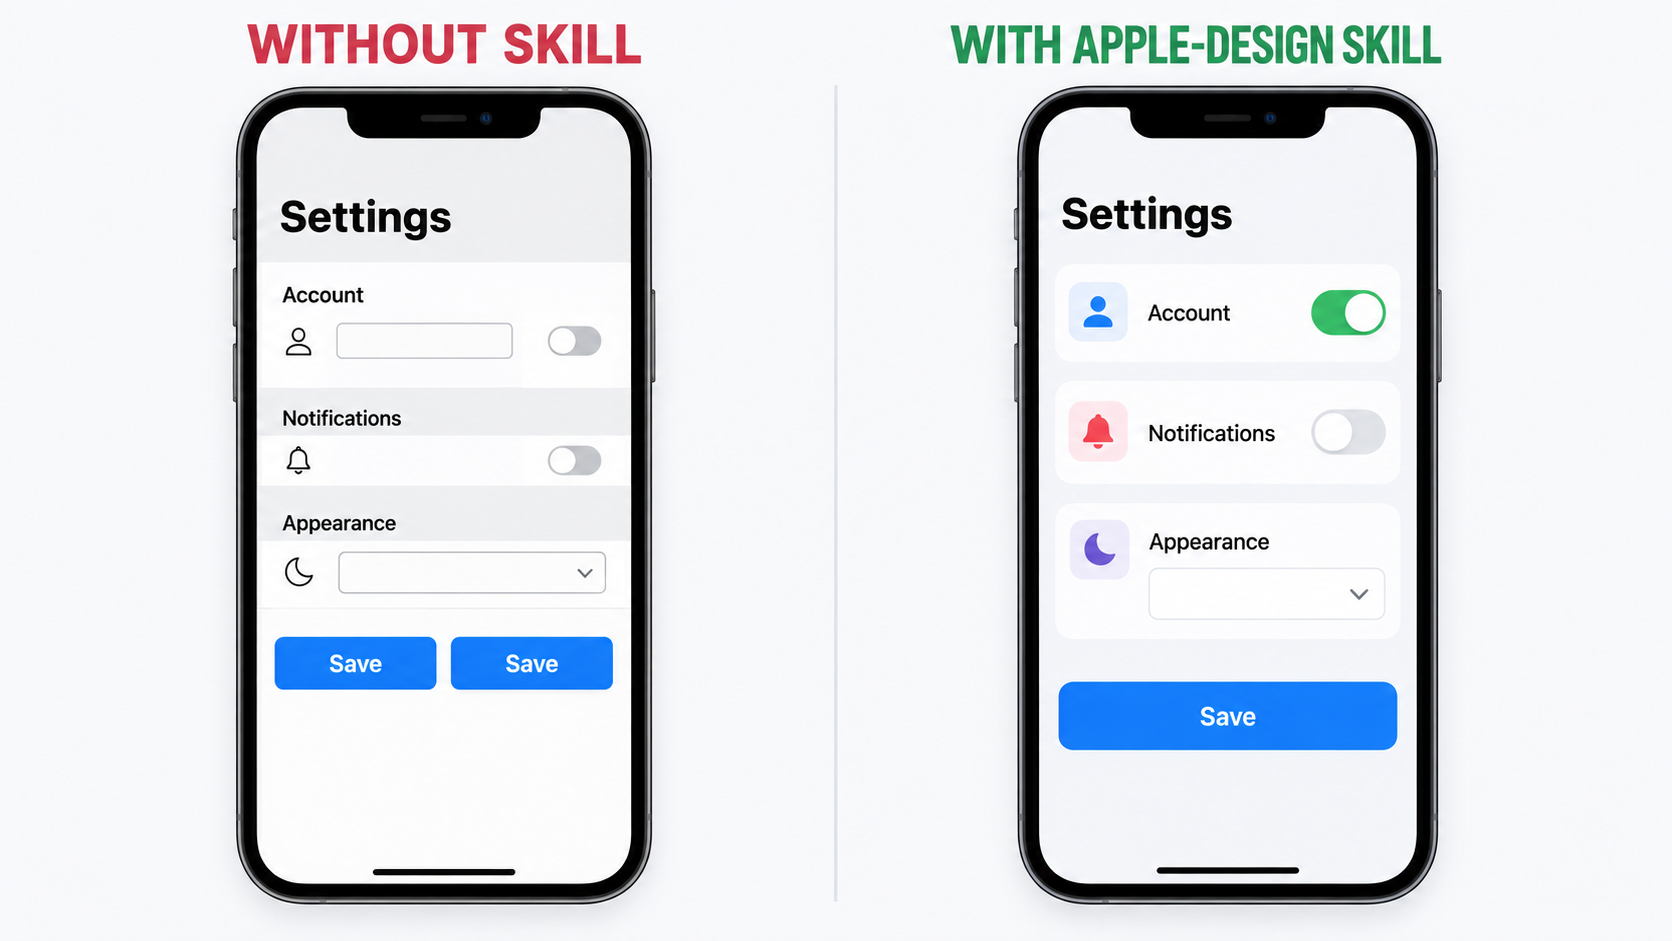
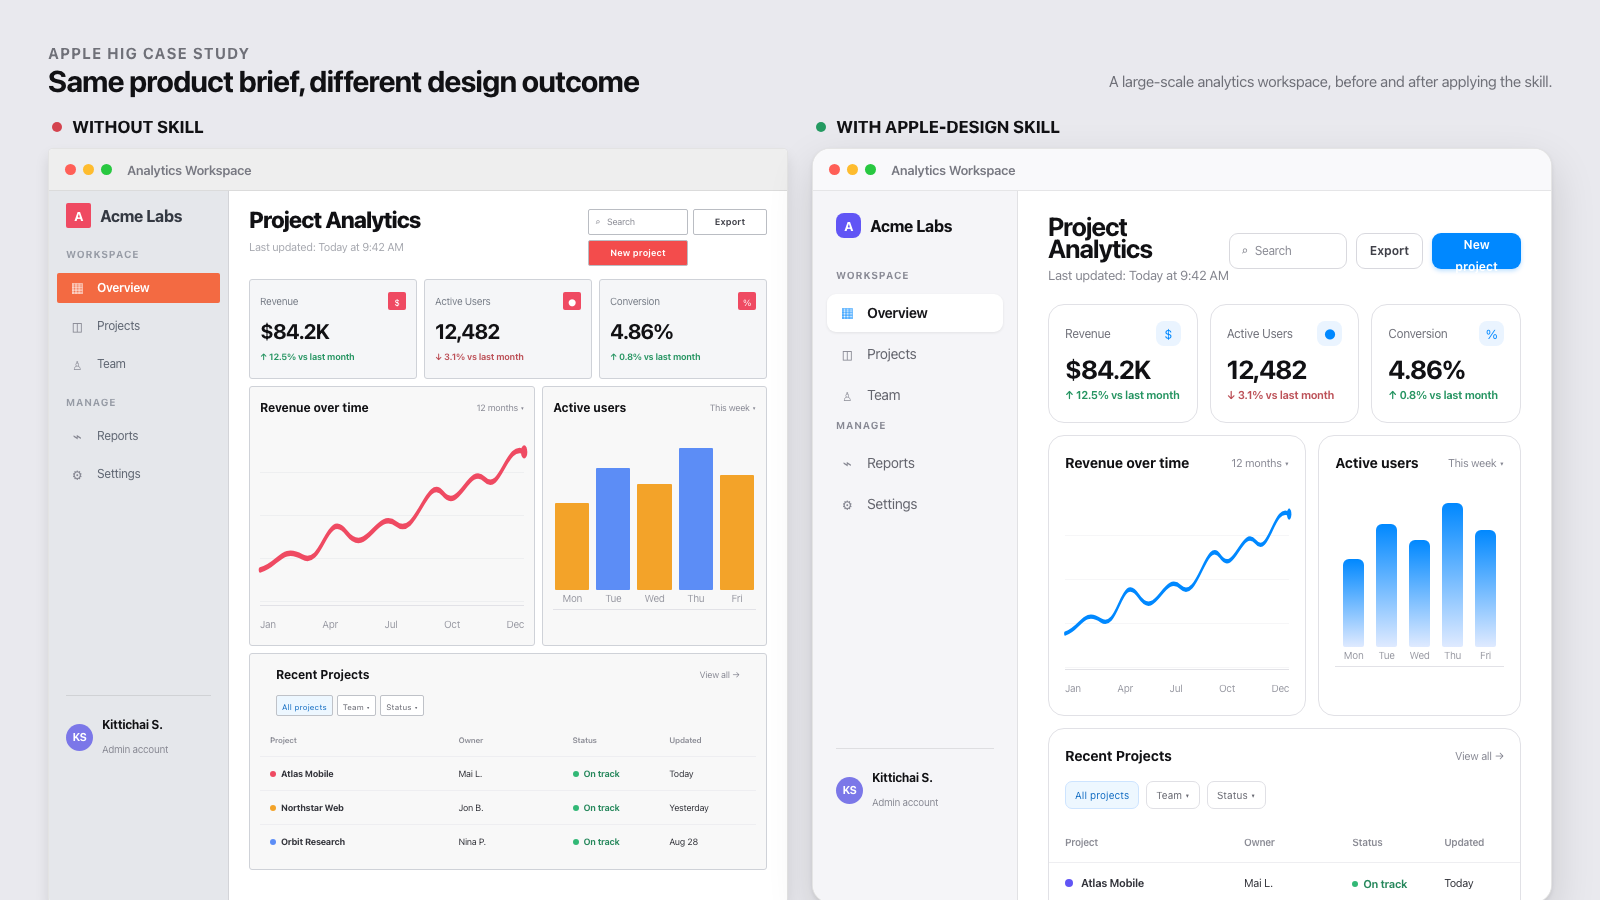
Expand README UI comparison example

diff --git a/examples/comparison.html b/examples/comparison.html
@@ -1,0 +1,280 @@
+<!doctype html>
+<html lang="en" data-theme="light">
+<head>
+<meta charset="utf-8">
+<meta name="viewport" content="width=device-width, initial-scale=1">
+<title>apple-design — before and after</title>
+<link rel="stylesheet" href="../assets/apple-tokens.css">
+<style>
+  /* The comparison is intentionally a fixed, presentation-sized canvas. */
+  :root { color-scheme: light; }
+  * { box-sizing: border-box; }
+  body {
+    margin: 0;
+    min-width: 1600px;
+    background: #e9e9ee;
+    color: #111114;
+    font-family: var(--font-sans);
+  }
+  .canvas {
+    width: 1600px;
+    min-height: 900px;
+    padding: 42px 48px 48px;
+    margin: 0 auto;
+  }
+  .canvas__intro {
+    display: flex;
+    align-items: end;
+    justify-content: space-between;
+    margin-bottom: 24px;
+  }
+  .eyebrow {
+    margin: 0 0 6px;
+    color: #6f7078;
+    font-size: 15px;
+    font-weight: 700;
+    letter-spacing: .08em;
+    text-transform: uppercase;
+  }
+  h1 { margin: 0; font-size: 30px; letter-spacing: -.03em; }
+  .intro-note { margin: 0; color: #6f7078; font-size: 15px; }
+  .comparison { display: grid; grid-template-columns: 1fr 1fr; gap: 24px; }
+  .case { min-width: 0; }
+  .case__label {
+    display: flex;
+    align-items: center;
+    gap: 10px;
+    margin: 0 0 10px 4px;
+    font-size: 17px;
+    font-weight: 750;
+    letter-spacing: -.01em;
+  }
+  .case__dot { width: 10px; height: 10px; border-radius: 50%; }
+  .case--bad .case__dot { background: #d4434e; }
+  .case--good .case__dot { background: #249a61; }
+  .window {
+    overflow: hidden;
+    height: 755px;
+    border: 1px solid rgb(0 0 0 / .10);
+    border-radius: 18px;
+    background: #fff;
+    box-shadow: 0 18px 45px rgb(0 0 0 / .14), 0 2px 4px rgb(0 0 0 / .08);
+  }
+  .window__bar {
+    display: flex;
+    align-items: center;
+    gap: 7px;
+    height: 42px;
+    padding: 0 16px;
+    border-bottom: 1px solid rgb(0 0 0 / .08);
+    background: rgb(249 249 251 / .96);
+  }
+  .traffic { width: 11px; height: 11px; border-radius: 50%; }
+  .traffic--red { background: #ff5f57; }
+  .traffic--yellow { background: #febc2e; }
+  .traffic--green { background: #28c840; }
+  .window__name { margin-left: 8px; color: #777881; font-size: 13px; font-weight: 600; }
+  .app { display: grid; grid-template-columns: 205px 1fr; height: calc(100% - 42px); }
+  .sidebar {
+    padding: 22px 14px;
+    border-right: 1px solid rgb(0 0 0 / .08);
+    background: #f5f5f8;
+  }
+  .sidebar__brand { display: flex; align-items: center; gap: 9px; margin: 0 9px 26px; font-size: 16px; font-weight: 750; }
+  .brand-mark { display: grid; place-items: center; width: 25px; height: 25px; border-radius: 8px; color: #fff; background: var(--indigo); font-size: 13px; }
+  .sidebar__section { margin: 0 9px 8px; color: #888994; font-size: 10px; font-weight: 700; letter-spacing: .08em; text-transform: uppercase; }
+  .side-item { display: flex; align-items: center; gap: 10px; height: 38px; padding: 0 10px; border-radius: 9px; color: #64656e; font-size: 14px; }
+  .side-item + .side-item { margin-top: 3px; }
+  .side-item__icon { display: grid; place-items: center; width: 20px; color: #868792; font-size: 15px; }
+  .side-item--active { color: #16161a; background: #fff; box-shadow: 0 1px 3px rgb(0 0 0 / .08); font-weight: 650; }
+  .side-item--active .side-item__icon { color: var(--accent); }
+  .sidebar__profile { display: flex; align-items: center; gap: 9px; margin: 225px 9px 0; padding-top: 18px; border-top: 1px solid rgb(0 0 0 / .09); }
+  .avatar { display: grid; place-items: center; width: 27px; height: 27px; border-radius: 50%; color: #fff; background: #7b77e8; font-size: 11px; font-weight: 700; }
+  .profile-copy { min-width: 0; }
+  .profile-copy strong, .profile-copy small { display: block; overflow: hidden; text-overflow: ellipsis; white-space: nowrap; }
+  .profile-copy strong { font-size: 12px; }
+  .profile-copy small { margin-top: 2px; color: #898a94; font-size: 10px; }
+  .main { min-width: 0; overflow: hidden; background: #fff; }
+  .main__header { display: flex; align-items: center; justify-content: space-between; padding: 24px 30px 18px; }
+  .main__title h2 { margin: 0; font-size: 26px; letter-spacing: -.04em; }
+  .main__title p { margin: 5px 0 0; color: #85868f; font-size: 13px; }
+  .toolbar { display: flex; align-items: center; gap: 9px; }
+  .search { display: flex; align-items: center; gap: 7px; height: 36px; padding: 0 11px; border: 1px solid #d9d9de; border-radius: 9px; color: #8b8c95; font-size: 12px; }
+  .search span:last-child { width: 80px; }
+  button { font: inherit; }
+  .button { height: 36px; padding: 0 13px; border: 1px solid #d8d8de; border-radius: 9px; color: #404149; background: #fff; font-size: 12px; font-weight: 650; }
+  .button--primary { border-color: transparent; color: #fff; background: var(--accent); box-shadow: 0 2px 4px rgb(0 136 255 / .25); }
+  .content { padding: 0 30px 30px; }
+  .metrics { display: grid; grid-template-columns: repeat(3, 1fr); gap: 12px; }
+  .metric { padding: 16px; border: 1px solid #e1e1e6; border-radius: var(--r-lg); background: var(--bg-grouped-secondary); }
+  .metric__top { display: flex; align-items: center; justify-content: space-between; color: #70717a; font-size: 12px; }
+  .metric__icon { display: grid; place-items: center; width: 25px; height: 25px; border-radius: 8px; color: var(--accent); background: #eaf4ff; font-size: 13px; }
+  .metric__value { margin-top: 12px; font-size: 26px; font-weight: 700; letter-spacing: -.04em; }
+  .metric__delta { margin-top: 4px; color: #259461; font-size: 11px; font-weight: 650; }
+  .metric__delta--bad { color: #bc5057; }
+  .panel-grid { display: grid; grid-template-columns: 1.12fr .88fr; gap: 12px; margin-top: 12px; }
+  .panel { min-width: 0; padding: 16px; border: 1px solid #e1e1e6; border-radius: var(--r-lg); background: #fff; }
+  .panel__heading { display: flex; align-items: center; justify-content: space-between; }
+  .panel__heading h3 { margin: 0; font-size: 14px; letter-spacing: -.01em; }
+  .panel__heading span { color: #888994; font-size: 11px; }
+  .chart { position: relative; height: 178px; margin-top: 18px; border-bottom: 1px solid #e2e2e7; background: repeating-linear-gradient(to bottom, transparent 0 43px, #ededf0 44px); }
+  .chart svg { position: absolute; inset: 0; width: 100%; height: 100%; overflow: visible; }
+  .chart-labels { display: flex; justify-content: space-between; margin-top: 7px; color: #999aa3; font-size: 10px; }
+  .bars { display: grid; grid-template-columns: repeat(5, 1fr); align-items: end; gap: 12px; height: 178px; margin-top: 15px; padding: 0 8px 19px; border-bottom: 1px solid #e2e2e7; }
+  .bar { position: relative; border-radius: 6px 6px 2px 2px; background: linear-gradient(to top, #dfeaff, var(--accent)); }
+  .bar::after { content: ""; position: absolute; right: 0; bottom: -19px; left: 0; color: #999aa3; font-size: 10px; text-align: center; }
+  .bar:nth-child(1) { height: 56%; } .bar:nth-child(2) { height: 78%; } .bar:nth-child(3) { height: 68%; } .bar:nth-child(4) { height: 91%; } .bar:nth-child(5) { height: 74%; }
+  .bar:nth-child(1)::after { content: "Mon"; } .bar:nth-child(2)::after { content: "Tue"; } .bar:nth-child(3)::after { content: "Wed"; } .bar:nth-child(4)::after { content: "Thu"; } .bar:nth-child(5)::after { content: "Fri"; }
+  .table-panel { margin-top: 12px; padding: 16px 0 0; }
+  .table-panel .panel__heading { padding: 0 16px; }
+  .filters { display: flex; gap: 7px; margin-top: 14px; padding: 0 16px; }
+  .filter { height: 28px; padding: 0 9px; border: 1px solid #e0e0e5; border-radius: 7px; color: #686972; background: #fff; font-size: 10px; }
+  .filter--selected { border-color: #cde4ff; color: #126cc2; background: #edf7ff; }
+  table { width: 100%; margin-top: 13px; border-collapse: collapse; table-layout: fixed; font-size: 11px; }
+  th { padding: 9px 16px; color: #8b8c95; font-size: 10px; font-weight: 600; text-align: left; }
+  td { height: 41px; padding: 0 16px; border-top: 1px solid #eeeeF1; color: #33343b; }
+  th:nth-child(1), td:nth-child(1) { width: 38%; } th:nth-child(2), td:nth-child(2) { width: 23%; }
+  .project { display: flex; align-items: center; gap: 8px; font-weight: 650; }
+  .project__dot { width: 8px; height: 8px; border-radius: 50%; background: var(--indigo); }
+  .status { display: inline-flex; align-items: center; gap: 5px; color: #25875b; font-weight: 650; }
+  .status::before { content: ""; width: 6px; height: 6px; border-radius: 50%; background: #32b876; }
+
+  /* Deliberately weaker choices on the left-hand example. */
+  .case--bad .window { border-radius: 5px; background: #fdfdfd; box-shadow: 0 8px 14px rgb(0 0 0 / .10); }
+  .case--bad .window__bar { background: #eeeeee; }
+  .case--bad .app { grid-template-columns: 180px 1fr; }
+  .case--bad .sidebar { padding: 12px 8px; background: #e5e7eb; }
+  .case--bad .sidebar__brand { margin-bottom: 15px; color: #343942; }
+  .case--bad .brand-mark { border-radius: 2px; background: #ef4a62; }
+  .case--bad .sidebar__section { margin-top: 12px; color: #969ba5; }
+  .case--bad .side-item { height: 30px; border-radius: 2px; color: #5f6672; font-size: 12px; }
+  .case--bad .side-item + .side-item { margin-top: 8px; }
+  .case--bad .side-item--active { color: #fff; background: #f36a42; box-shadow: none; }
+  .case--bad .side-item--active .side-item__icon { color: #fff; }
+  .case--bad .sidebar__profile { margin-top: 206px; }
+  .case--bad .main { background: #fff; }
+  .case--bad .main__header { align-items: start; padding: 18px 20px 13px; }
+  .case--bad .main__title h2 { font-size: 23px; font-weight: 800; }
+  .case--bad .main__title p { color: #a7a9b0; font-size: 11px; }
+  .case--bad .toolbar { display: grid; grid-template-columns: 100px 74px; gap: 5px; }
+  .case--bad .search { width: 100px; height: 26px; padding: 0 6px; border-color: #babdc3; border-radius: 2px; font-size: 9px; }
+  .case--bad .search span:last-child { width: 53px; }
+  .case--bad .button { height: 26px; padding: 0 6px; border-color: #babdc3; border-radius: 2px; font-size: 9px; }
+  .case--bad .button--primary { background: #f34c4c; box-shadow: none; }
+  .case--bad .content { padding: 0 20px 20px; }
+  .case--bad .metrics { gap: 7px; }
+  .case--bad .metric { min-height: 94px; padding: 10px; border-color: #cfd2d8; border-radius: 3px; background: #f5f6f8; }
+  .case--bad .metric__top { color: #777d87; font-size: 10px; }
+  .case--bad .metric__icon { width: 18px; height: 18px; border-radius: 2px; color: #fff; background: #ef4a62; font-size: 9px; }
+  .case--bad .metric__value { margin-top: 8px; font-size: 21px; }
+  .case--bad .metric__delta { font-size: 9px; }
+  .case--bad .panel-grid { gap: 7px; margin-top: 7px; }
+  .case--bad .panel { padding: 10px; border-color: #cfd2d8; border-radius: 3px; background: #f8f8f8; }
+  .case--bad .panel__heading h3 { font-size: 12px; }
+  .case--bad .panel__heading span { font-size: 9px; }
+  .case--bad .chart { height: 176px; margin-top: 11px; background: repeating-linear-gradient(to bottom, transparent 0 42px, #e4e6e9 43px); }
+  .case--bad .chart path { stroke: #ef4a62; stroke-width: 5; }
+  .case--bad .chart circle { fill: #ef4a62; }
+  .case--bad .bars { height: 176px; gap: 7px; padding-inline: 2px; }
+  .case--bad .bar { border-radius: 1px; background: #f3a329; }
+  .case--bad .bar:nth-child(2), .case--bad .bar:nth-child(4) { background: #5c8df6; }
+  .case--bad .table-panel { margin-top: 7px; padding-top: 10px; }
+  .case--bad .filters { gap: 4px; margin-top: 9px; }
+  .case--bad .filter { height: 21px; padding: 0 5px; border-color: #bfc2c8; border-radius: 2px; font-size: 8px; }
+  .case--bad table { margin-top: 8px; font-size: 9px; }
+  .case--bad th { padding: 5px 10px; font-size: 8px; }
+  .case--bad td { height: 34px; padding: 0 10px; }
+  .case--bad .project { gap: 5px; font-weight: 700; }
+  .case--bad .project__dot { width: 6px; height: 6px; background: #ef4a62; }
+</style>
+</head>
+<body>
+<main class="canvas">
+  <header class="canvas__intro">
+    <div>
+      <p class="eyebrow">Apple HIG case study</p>
+      <h1>Same product brief, different design outcome</h1>
+    </div>
+    <p class="intro-note">A large-scale analytics workspace, before and after applying the skill.</p>
+  </header>
+
+  <section class="comparison" aria-label="Before and after comparison">
+    <article class="case case--bad">
+      <h2 class="case__label"><span class="case__dot"></span>WITHOUT SKILL</h2>
+      <div class="window">
+        <div class="window__bar"><span class="traffic traffic--red"></span><span class="traffic traffic--yellow"></span><span class="traffic traffic--green"></span><span class="window__name">Analytics Workspace</span></div>
+        <div class="app">
+          <aside class="sidebar">
+            <div class="sidebar__brand"><span class="brand-mark">A</span> Acme Labs</div>
+            <p class="sidebar__section">Workspace</p>
+            <div class="side-item side-item--active"><span class="side-item__icon">▦</span> Overview</div>
+            <div class="side-item"><span class="side-item__icon">◫</span> Projects</div>
+            <div class="side-item"><span class="side-item__icon">♙</span> Team</div>
+            <p class="sidebar__section">Manage</p>
+            <div class="side-item"><span class="side-item__icon">⌁</span> Reports</div>
+            <div class="side-item"><span class="side-item__icon">⚙</span> Settings</div>
+            <div class="sidebar__profile"><span class="avatar">KS</span><span class="profile-copy"><strong>Kittichai S.</strong><small>Admin account</small></span></div>
+          </aside>
+          <div class="main">
+            <header class="main__header">
+              <div class="main__title"><h2>Project Analytics</h2><p>Last updated: Today at 9:42 AM</p></div>
+              <div class="toolbar"><div class="search"><span>⌕</span><span>Search</span></div><button class="button">Export</button><button class="button button--primary">New project</button></div>
+            </header>
+            <div class="content">
+              <div class="metrics">
+                <div class="metric"><div class="metric__top"><span>Revenue</span><span class="metric__icon">$</span></div><div class="metric__value">$84.2K</div><div class="metric__delta">↑ 12.5% vs last month</div></div>
+                <div class="metric"><div class="metric__top"><span>Active Users</span><span class="metric__icon">●</span></div><div class="metric__value">12,482</div><div class="metric__delta metric__delta--bad">↓ 3.1% vs last month</div></div>
+                <div class="metric"><div class="metric__top"><span>Conversion</span><span class="metric__icon">%</span></div><div class="metric__value">4.86%</div><div class="metric__delta">↑ 0.8% vs last month</div></div>
+              </div>
+              <div class="panel-grid">
+                <section class="panel"><div class="panel__heading"><h3>Revenue over time</h3><span>12 months ▾</span></div><div class="chart"><svg viewBox="0 0 500 160" preserveAspectRatio="none"><path d="M0,128 C35,124 40,105 80,116 S125,70 164,94 S220,71 258,86 S315,39 346,58 S395,30 425,45 S466,10 500,20" fill="none" stroke="#ef4a62" stroke-linecap="round"/><circle cx="500" cy="20" r="6" fill="#ef4a62"/></svg></div><div class="chart-labels"><span>Jan</span><span>Apr</span><span>Jul</span><span>Oct</span><span>Dec</span></div></section>
+                <section class="panel"><div class="panel__heading"><h3>Active users</h3><span>This week ▾</span></div><div class="bars"><span class="bar"></span><span class="bar"></span><span class="bar"></span><span class="bar"></span><span class="bar"></span></div></section>
+              </div>
+              <section class="panel table-panel"><div class="panel__heading"><h3>Recent Projects</h3><span>View all →</span></div><div class="filters"><button class="filter filter--selected">All projects</button><button class="filter">Team ▾</button><button class="filter">Status ▾</button></div><table><thead><tr><th>Project</th><th>Owner</th><th>Status</th><th>Updated</th></tr></thead><tbody><tr><td><span class="project"><span class="project__dot"></span>Atlas Mobile</span></td><td>Mai L.</td><td><span class="status">On track</span></td><td>Today</td></tr><tr><td><span class="project"><span class="project__dot" style="background:#f3a329"></span>Northstar Web</span></td><td>Jon B.</td><td><span class="status">On track</span></td><td>Yesterday</td></tr><tr><td><span class="project"><span class="project__dot" style="background:#5c8df6"></span>Orbit Research</span></td><td>Nina P.</td><td><span class="status">On track</span></td><td>Aug 28</td></tr></tbody></table></section>
+            </div>
+          </div>
+        </div>
+      </div>
+    </article>
+
+    <article class="case case--good">
+      <h2 class="case__label"><span class="case__dot"></span>WITH APPLE-DESIGN SKILL</h2>
+      <div class="window">
+        <div class="window__bar"><span class="traffic traffic--red"></span><span class="traffic traffic--yellow"></span><span class="traffic traffic--green"></span><span class="window__name">Analytics Workspace</span></div>
+        <div class="app">
+          <aside class="sidebar">
+            <div class="sidebar__brand"><span class="brand-mark">A</span> Acme Labs</div>
+            <p class="sidebar__section">Workspace</p>
+            <div class="side-item side-item--active"><span class="side-item__icon">▦</span> Overview</div>
+            <div class="side-item"><span class="side-item__icon">◫</span> Projects</div>
+            <div class="side-item"><span class="side-item__icon">♙</span> Team</div>
+            <p class="sidebar__section">Manage</p>
+            <div class="side-item"><span class="side-item__icon">⌁</span> Reports</div>
+            <div class="side-item"><span class="side-item__icon">⚙</span> Settings</div>
+            <div class="sidebar__profile"><span class="avatar">KS</span><span class="profile-copy"><strong>Kittichai S.</strong><small>Admin account</small></span></div>
+          </aside>
+          <div class="main">
+            <header class="main__header">
+              <div class="main__title"><h2>Project Analytics</h2><p>Last updated: Today at 9:42 AM</p></div>
+              <div class="toolbar"><div class="search"><span>⌕</span><span>Search</span></div><button class="button">Export</button><button class="button button--primary">New project</button></div>
+            </header>
+            <div class="content">
+              <div class="metrics">
+                <div class="metric"><div class="metric__top"><span>Revenue</span><span class="metric__icon">$</span></div><div class="metric__value">$84.2K</div><div class="metric__delta">↑ 12.5% vs last month</div></div>
+                <div class="metric"><div class="metric__top"><span>Active Users</span><span class="metric__icon">●</span></div><div class="metric__value">12,482</div><div class="metric__delta metric__delta--bad">↓ 3.1% vs last month</div></div>
+                <div class="metric"><div class="metric__top"><span>Conversion</span><span class="metric__icon">%</span></div><div class="metric__value">4.86%</div><div class="metric__delta">↑ 0.8% vs last month</div></div>
+              </div>
+              <div class="panel-grid">
+                <section class="panel"><div class="panel__heading"><h3>Revenue over time</h3><span>12 months ▾</span></div><div class="chart"><svg viewBox="0 0 500 160" preserveAspectRatio="none"><path d="M0,128 C35,124 40,105 80,116 S125,70 164,94 S220,71 258,86 S315,39 346,58 S395,30 425,45 S466,10 500,20" fill="none" stroke="var(--accent)" stroke-width="4" stroke-linecap="round"/><circle cx="500" cy="20" r="5" fill="var(--accent)"/></svg></div><div class="chart-labels"><span>Jan</span><span>Apr</span><span>Jul</span><span>Oct</span><span>Dec</span></div></section>
+                <section class="panel"><div class="panel__heading"><h3>Active users</h3><span>This week ▾</span></div><div class="bars"><span class="bar"></span><span class="bar"></span><span class="bar"></span><span class="bar"></span><span class="bar"></span></div></section>
+              </div>
+              <section class="panel table-panel"><div class="panel__heading"><h3>Recent Projects</h3><span>View all →</span></div><div class="filters"><button class="filter filter--selected">All projects</button><button class="filter">Team ▾</button><button class="filter">Status ▾</button></div><table><thead><tr><th>Project</th><th>Owner</th><th>Status</th><th>Updated</th></tr></thead><tbody><tr><td><span class="project"><span class="project__dot"></span>Atlas Mobile</span></td><td>Mai L.</td><td><span class="status">On track</span></td><td>Today</td></tr><tr><td><span class="project"><span class="project__dot" style="background:var(--orange)"></span>Northstar Web</span></td><td>Jon B.</td><td><span class="status">On track</span></td><td>Yesterday</td></tr><tr><td><span class="project"><span class="project__dot" style="background:var(--indigo)"></span>Orbit Research</span></td><td>Nina P.</td><td><span class="status">On track</span></td><td>Aug 28</td></tr></tbody></table></section>
+            </div>
+          </div>
+        </div>
+      </div>
+    </article>
+  </section>
+</main>
+</body>
+</html>

diff --git a/README.md b/README.md
@@ -12,13 +12,14 @@ Dynamic Type ladder, and a HIG→CSS mapping for web work.
 
 ## Example: same screen, different outcome
 
-The illustration below compares the same settings screen built without a design reference
+The screenshot below is rendered from [`examples/comparison.html`](examples/comparison.html).
+It compares the same production-scale analytics workspace built without a design reference
 and with the `apple-design` skill. The right-hand version applies grouped layout, consistent
-spacing, clearer hierarchy, larger touch targets, semantic controls, and one prominent action.
+spacing, clearer hierarchy, semantic controls, accessible contrast, and focused action hierarchy.
 
 ![Comparison of a settings screen without and with the apple-design skill](assets/skill-comparison.png)
 
-This is an illustrative example, not an official Apple screenshot.
+This is a local HTML example, not an official Apple screenshot.
 
 ---
 
@@ -94,6 +95,7 @@ assets/
   type-scales.md              the full Dynamic Type tables, xSmall through AX5
 examples/
   settings.html               runnable demo — iOS grouped-settings screen on the tokens
+  comparison.html             production-scale before/after dashboard comparison
 scripts/
   refresh-hig.py              re-crawl Apple and regenerate the derived references and indexes
   preview.sh                  screenshot the demo in both appearances (headless Chrome)
